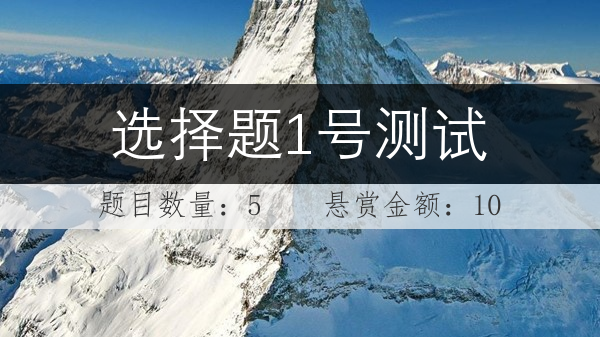
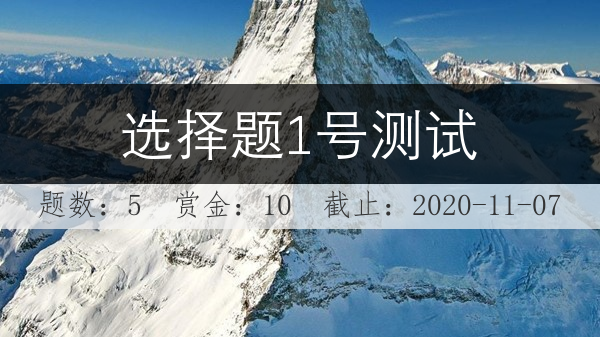
add new feature to picture #36

diff --git a/absanno_app/groundPic.py b/absanno_app/groundPic.py
@@ -1,8 +1,9 @@
 from PIL import Image, ImageDraw, ImageFont
 
-def generatePic(basePic, title, generatedPic, num, coin):
-	title_font = ImageFont.truetype("../pics/Deng.ttf", size=58)
+def generatePic(basePic, title, generatedPic, num, coin, ddl):
+	title_font = ImageFont.truetype("../pics/Deng.ttf", size=55)
 	info_font = ImageFont.truetype("../pics/simfang.ttf", size=30)
+	# info_font2 = ImageFont.truetype("../pics/Deng.ttf", size=20)
 	img = Image.open(basePic)
 	bg_size = img.size
 	# print(img)
@@ -20,13 +21,15 @@ def generatePic(basePic, title, generatedPic, num, coin):
 	img = Image.open(basePic)
 	image = Image.blend(img, image, 0.7)
 	draw = ImageDraw.Draw(image)
+	# info2 = "发布者：" + str(user)
 
 	colort="#ffffff"
 	color = "#333333"
-	info1 = "题目数量：" + str(num) + "    悬赏金额：" + str(coin)
+	info1 = "题数：" + str(num) + "  赏金：" + str(coin) + "  截止：" + str(ddl)
+
 
 	title_size = title_font.getsize(title)
-	title_coordinate = int((bg_size[0] - title_size[0]) / 2), int((bg_size[1] - title_size[1]) / 2) -35
+	title_coordinate = int((bg_size[0] - title_size[0]) / 2), int((bg_size[1] - title_size[1]) / 2) - 35
 	draw.text(title_coordinate, u'%s' % title, colort, title_font)
 
 	info_size = info_font.getsize(info1)
@@ -34,12 +37,12 @@ def generatePic(basePic, title, generatedPic, num, coin):
 	draw.text(info_coordinate, u'%s' % info1, color, info_font)
 
 	# info_size = info_font.getsize(info2)
-	# info_coordinate = int((bg_size[0] - info_size[0]) / 2), int((bg_size[1] - info_size[1]) / 2) + 80
-	# draw.text(info_coordinate, u'%s' % info2, color, info_font)
+	# info_coordinate = int((bg_size[0] - info_size[0]) / 2), int((bg_size[1] - info_size[1]) / 2) - 2
+	# draw.text(info_coordinate, u'%s' % info2, colort, info_font2)
 	image.save(generatedPic)
 
 # test only
 # for i in range(1, 8):
 # 	generatePic("../pics/"+str(i)+".jpg",
 # 				"选择题1号测试", "../pics/"+str(i)+"-1.png",
-# 				5, 10)
+# 				5, 10, "2020-11-07")
